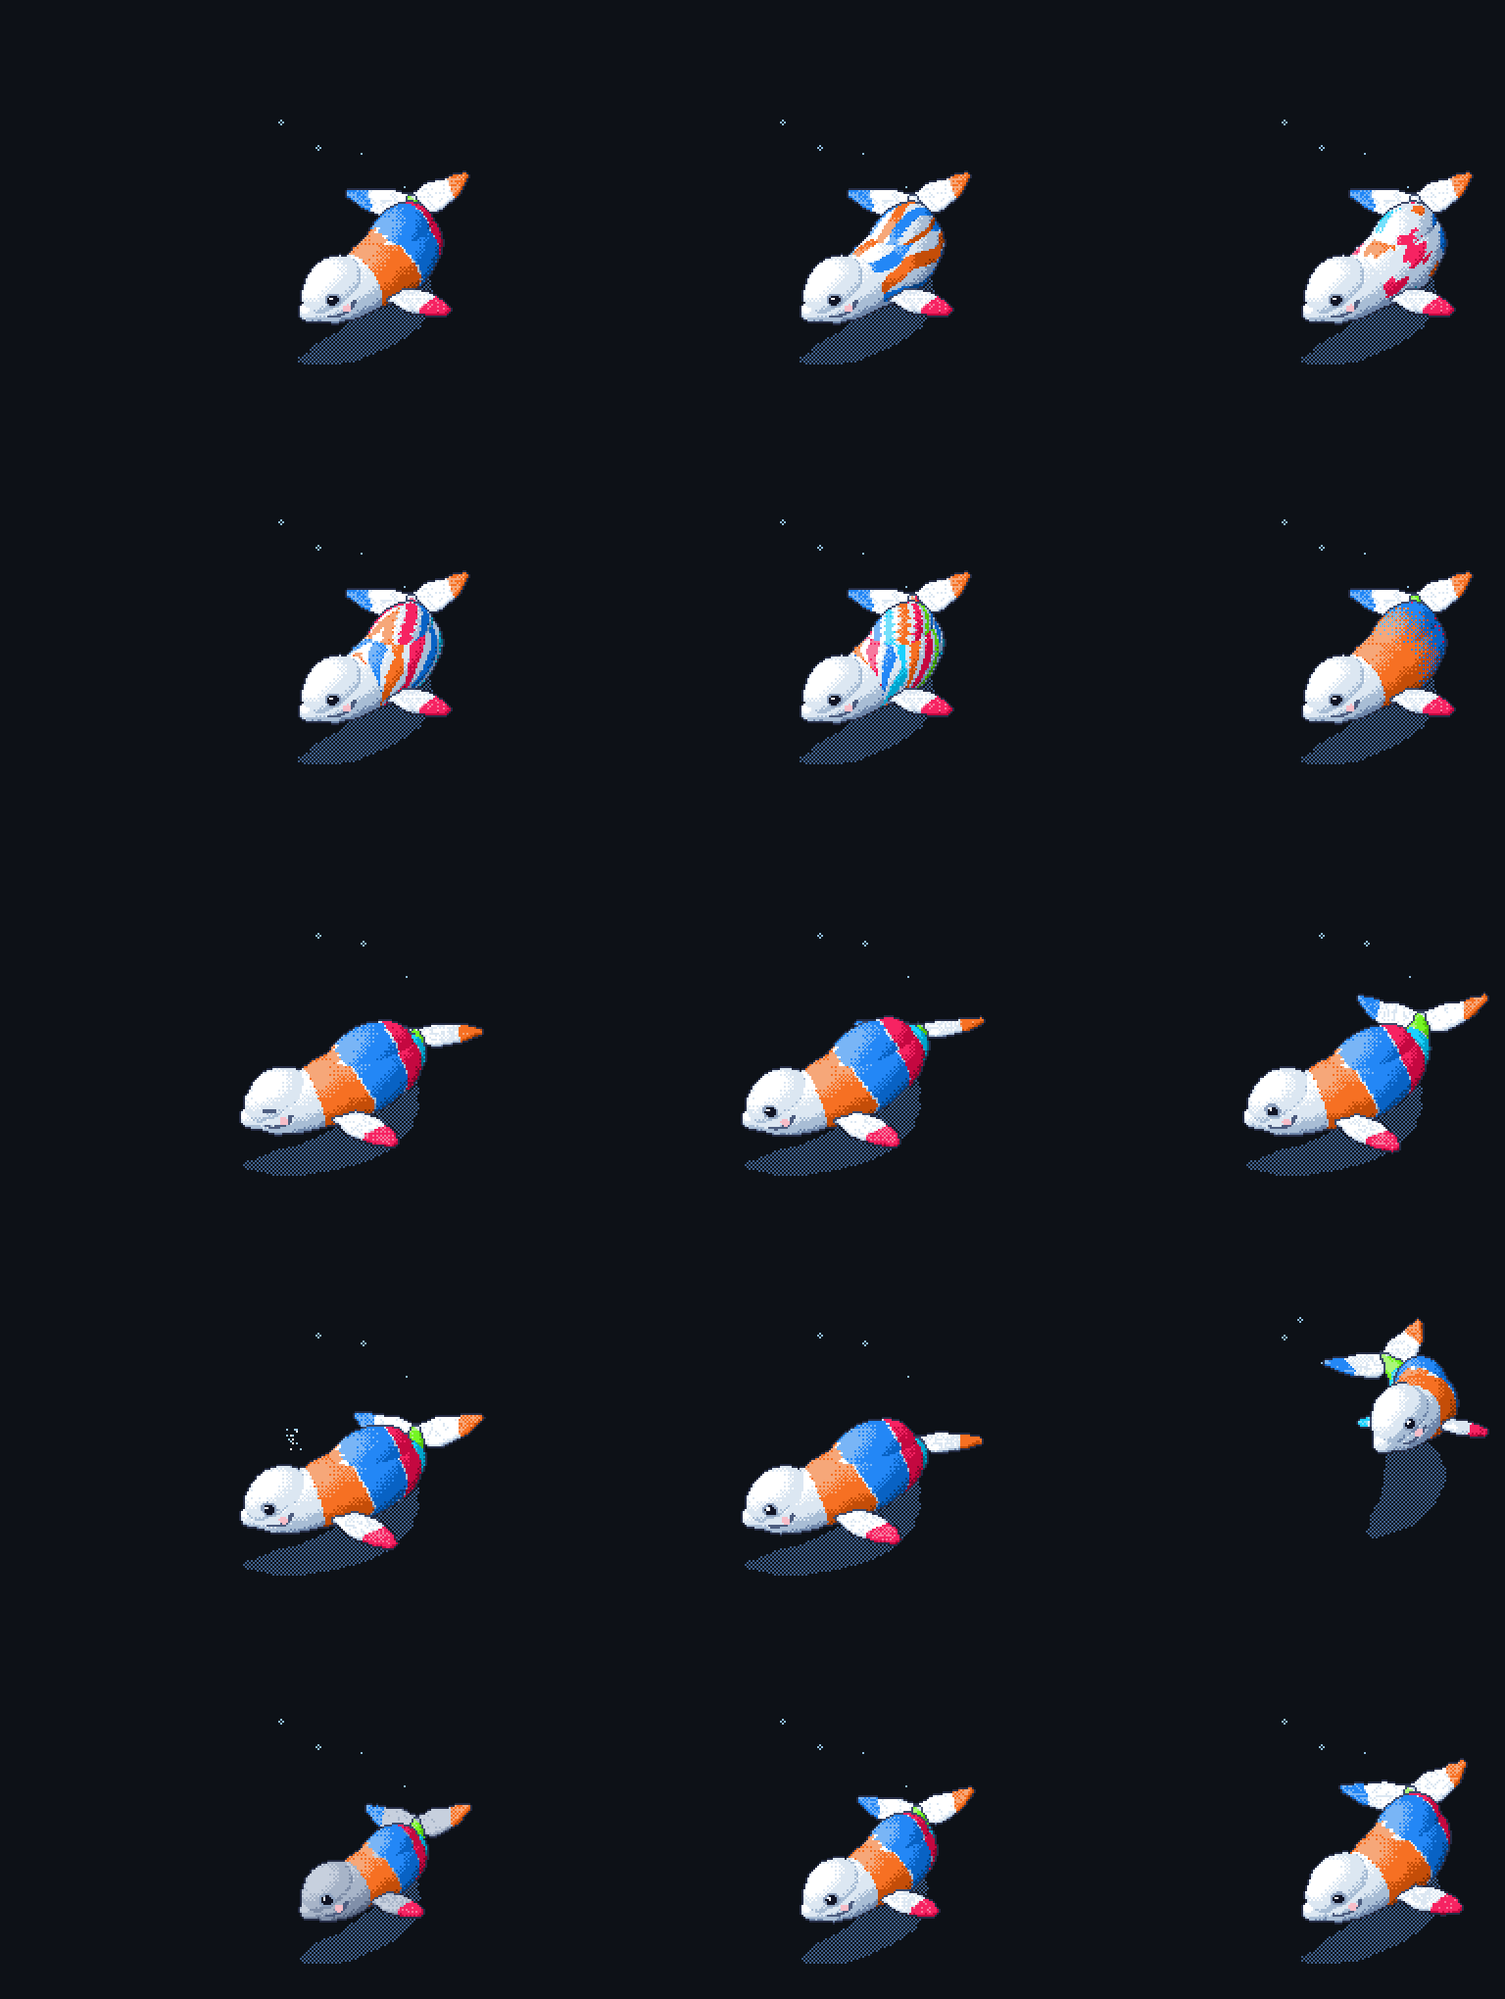
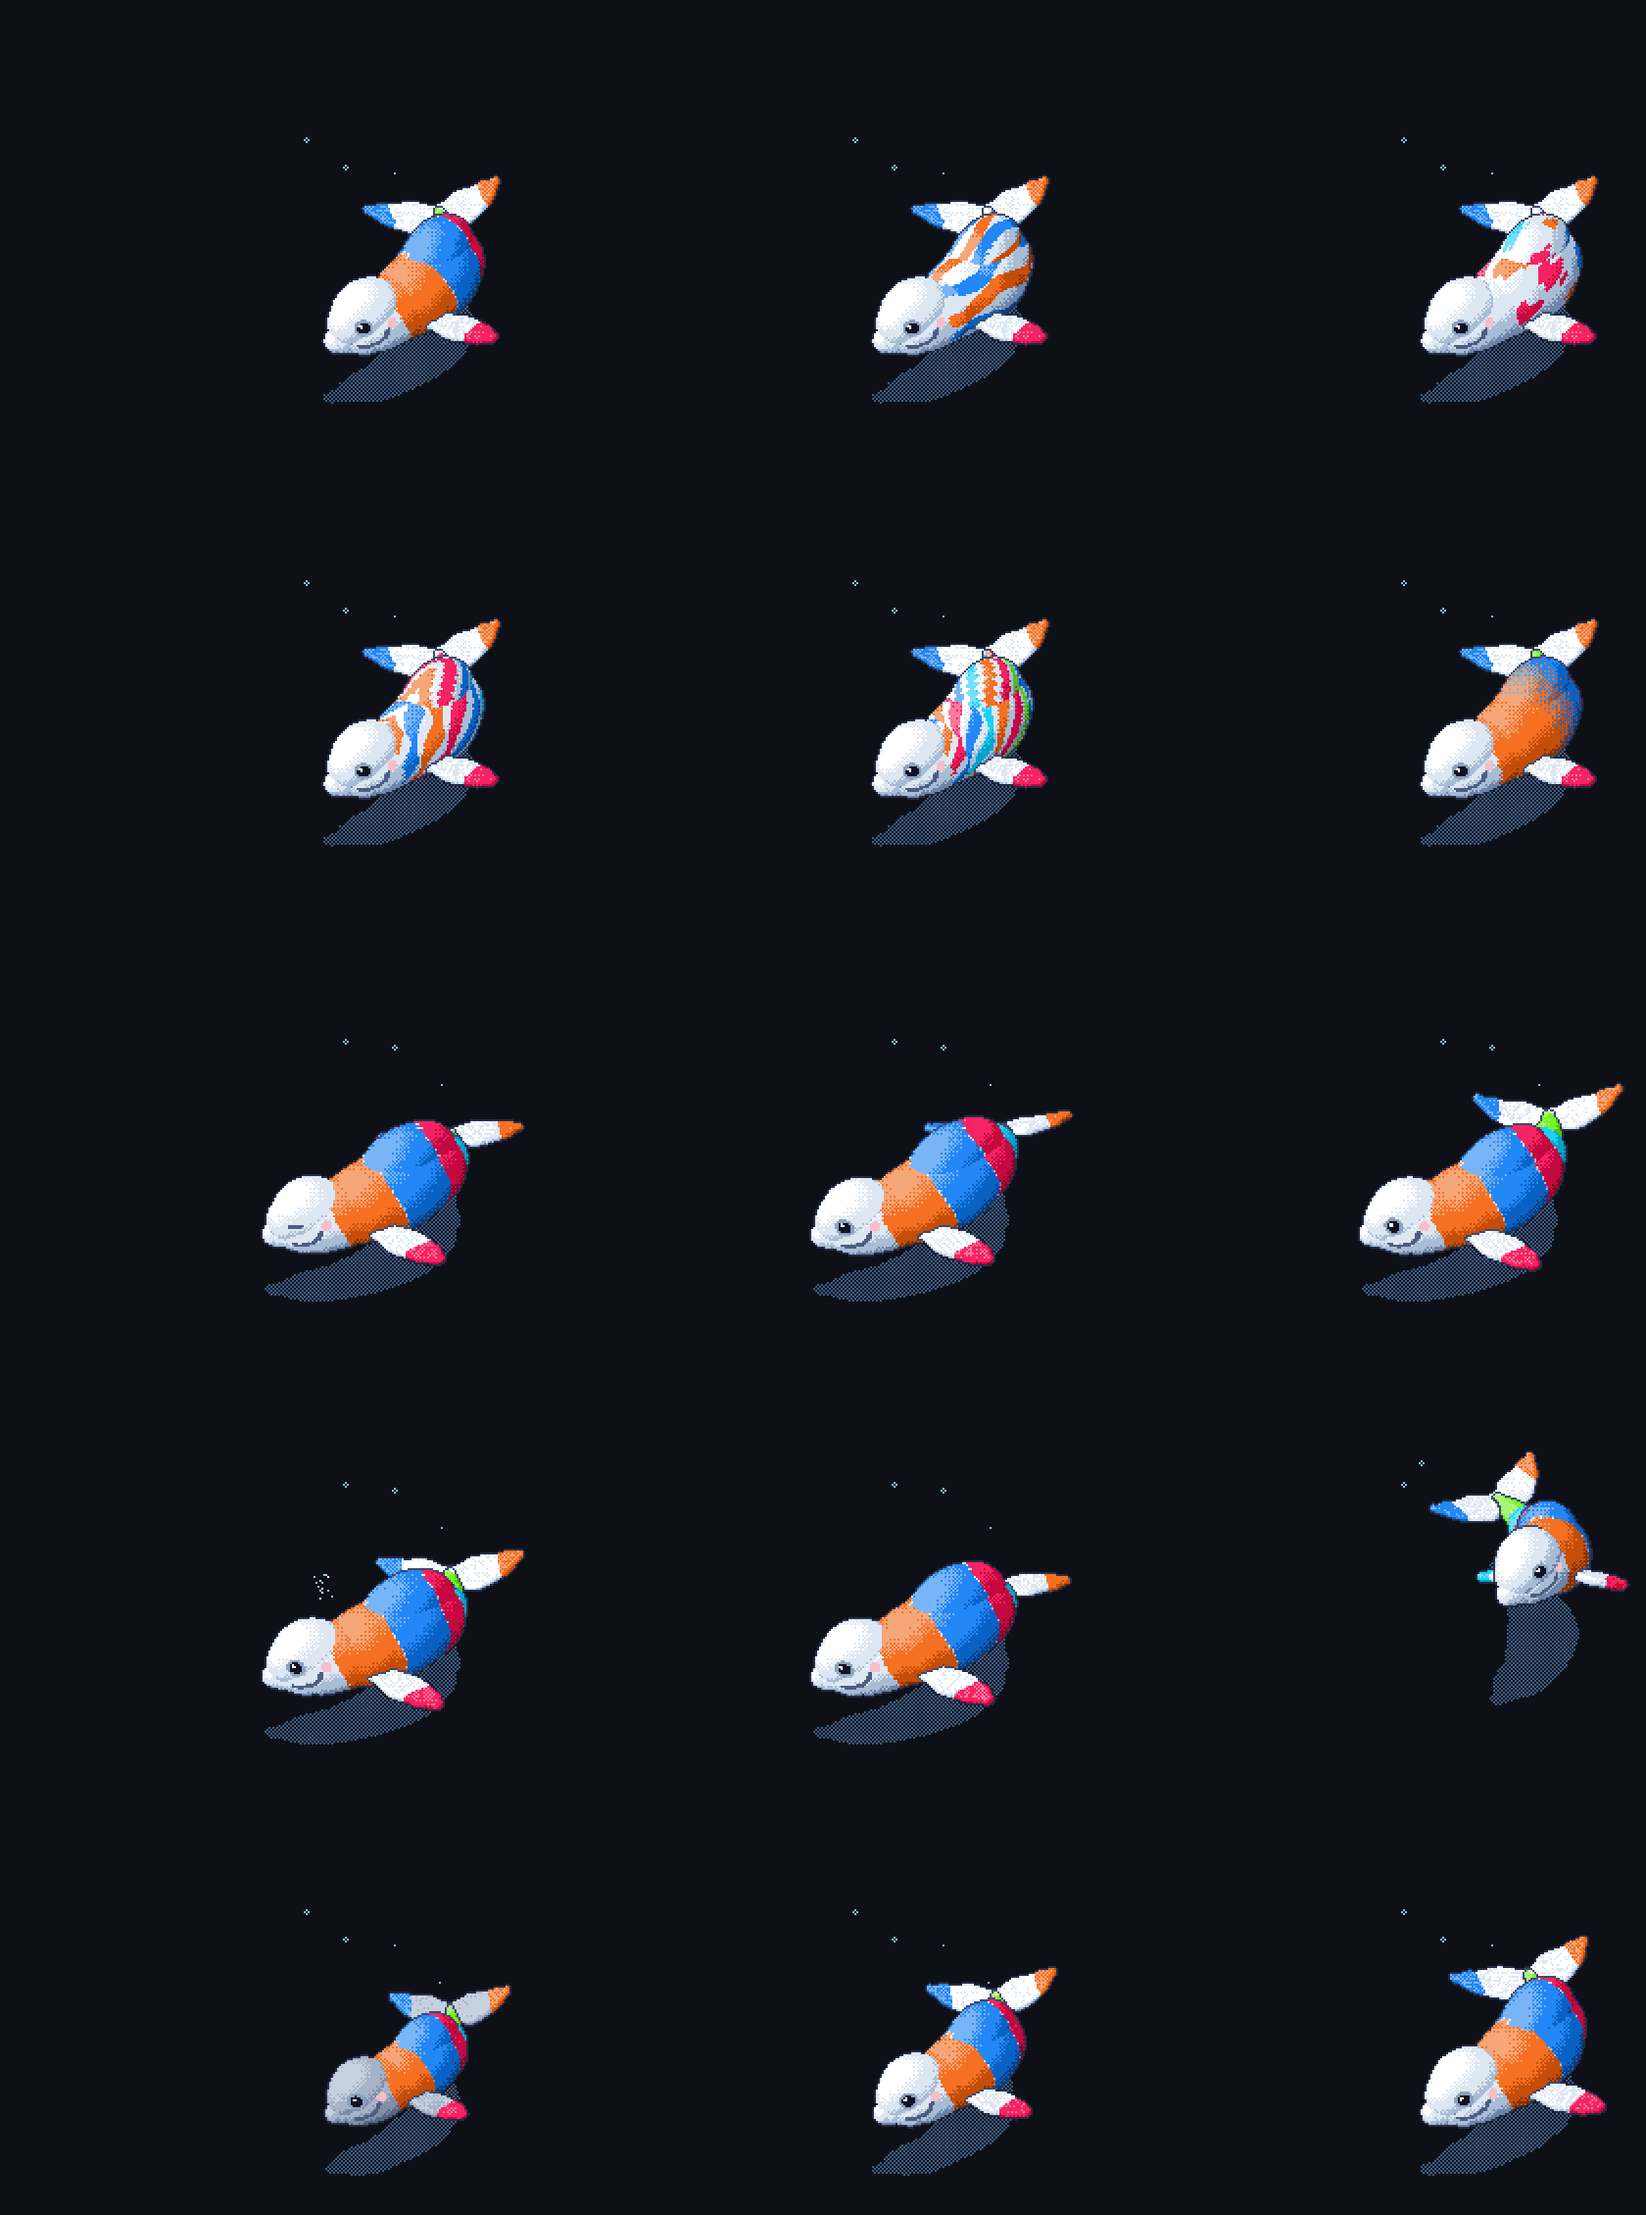
Make the rings larger and end the smile with the blush

diff --git a/src/whale.rs b/src/whale.rs
@@ -7,22 +7,24 @@ use std::f32::consts::{PI, TAU};
 
 use crate::activity::{Activity, Language, Mood};
 
-pub const W: usize = 256;
-pub const H: usize = 204;
+pub const W: usize = 280;
+pub const H: usize = 226;
 const FRAMES: usize = 108;
 const FLOW_BANDS: usize = 12;
-const RING: f32 = 70.0;
+const RING: f32 = 64.0;
 const LENGTH: f32 = 90.0;
 /// Camera height above the horizon: lower shows more flank, higher shows more back.
 const ELEVATION: f32 = 0.56;
 const FOCAL: f32 = 430.0;
-const SCREEN_CENTER: (f32, f32) = (128.0, 106.0);
-const ZOOM: f32 = 1.2;
+const SCREEN_CENTER: (f32, f32) = (140.0, 118.0);
+const ZOOM: f32 = 1.4;
 const WATER_Z: f32 = -27.0;
 /// Where color starts on the body; the head stays white for the face.
-const COLOR_START: f32 = 0.25;
+const COLOR_START: f32 = 0.2;
 /// Skin left white between neighboring rings, as area: about a pixel at mid-body.
-const RING_GAP_AREA: f32 = 7.0;
+const RING_GAP_AREA: f32 = 3.0;
+const MOUTH_RADIUS: f32 = 0.72;
+const BLUSH_RADIUS: f32 = 1.7;
 const EYE_U: f32 = 0.15;
 const EYE_AROUND: f32 = 68.0;
 /// Tips each eye a little forward, so both can be seen from the front.
@@ -869,7 +871,6 @@ impl Face {
             let eye = aim(EYE_U, EYE_AROUND, sign, EYE_AHEAD);
             face.eyes
                 .push((eye, add(eye, add(mul(s.up, 0.85), mul(s.fwd, 0.85))), s.up));
-            face.blushes.push(aim(0.15, 100.0, sign, 0.45));
             for k in 0..=44 {
                 let u = lerp(0.06, 0.142, k as f32 / 44.0);
                 let around = profile(
@@ -878,6 +879,19 @@ impl Face {
                 );
                 face.mouth.push(aim(u, around, sign, 0.0));
             }
+            // The blush caps the smile: it keeps following the curve past the corner until
+            // its edge just touches the end of the line, so they meet without overlapping.
+            let corner = *face.mouth.last().expect("the mouth was just drawn");
+            let touching = MOUTH_RADIUS + BLUSH_RADIUS;
+            let mut blush = corner;
+            for k in 1..200 {
+                let past = k as f32 * 0.0005;
+                blush = aim(0.142 + past, 88.0 - past * 700.0, sign, 0.0);
+                if dot(sub(blush, corner), sub(blush, corner)) >= touching * touching {
+                    break;
+                }
+            }
+            face.blushes.push(blush);
         }
         face
     }
@@ -902,10 +916,10 @@ impl Face {
                 return Some(Rgb(0x8c, 0xa0, 0xbe));
             }
         }
-        if self.blushes.iter().any(|&b| near(b, 1.7)) {
+        if self.blushes.iter().any(|&b| near(b, BLUSH_RADIUS)) {
             return Some(Rgb(0xf7, 0xbd, 0xc8));
         }
-        if self.mouth.iter().any(|&m| near(m, 0.72)) {
+        if self.mouth.iter().any(|&m| near(m, MOUTH_RADIUS)) {
             return Some(Rgb(0x4d, 0x5d, 0x80));
         }
         None
@@ -1118,6 +1132,39 @@ mod tests {
                     "{name}/{mood:?} jumps {different} pixels at the loop point"
                 );
             }
+        }
+    }
+
+    #[test]
+    fn the_blush_touches_the_smile_without_overlapping_it_or_the_eye() {
+        let a = activity(40);
+        let whale = Whale::new(&a, &languages(&[1.0]), Pattern::Rings);
+        let samples = spine(&whale, Mood::Swim, 0.3);
+        let mut buffer = Buffer::new();
+        let cam = Camera::new();
+        for (i, s) in samples.iter().enumerate() {
+            let u = i as f32 / (samples.len() - 1) as f32;
+            let center = add(s.center, mul(s.up, beak_drop(u)));
+            buffer.sphere(&cam, center, s.r, Part::Body, u, s.side, s.up);
+        }
+        let face = Face::new(&buffer, &samples);
+        let gap = |a: V3, b: V3| dot(sub(a, b), sub(a, b)).sqrt();
+        for (&blush, &(eye, _, _)) in face.blushes.iter().zip(&face.eyes) {
+            let nearest = face
+                .mouth
+                .iter()
+                .map(|&m| gap(m, blush))
+                .fold(f32::MAX, f32::min);
+            let touching = MOUTH_RADIUS + BLUSH_RADIUS;
+            assert!(
+                (nearest - touching).abs() < 0.2,
+                "mouth gap {nearest}, wanted {touching}"
+            );
+            assert!(
+                gap(blush, eye) >= BLUSH_RADIUS + 3.1,
+                "eye gap {}",
+                gap(blush, eye)
+            );
         }
     }
 

diff --git a/README.md b/README.md
@@ -50,7 +50,7 @@ The first rule that matches wins. "Today" means the last complete UTC day.
    repository (the one named after your username) as `.github/workflows/beluga.yml`.
 2. Add the whale and its color legend to its `README.md`:
    ```html
-   <img src="beluga/beluga.gif" width="512" alt="My git-beluga">
+   <img src="beluga/beluga.gif" width="560" alt="My git-beluga">
    <br><br>
    <img src="beluga/legend.svg" width="512" alt="What the colors mean">
    ```
